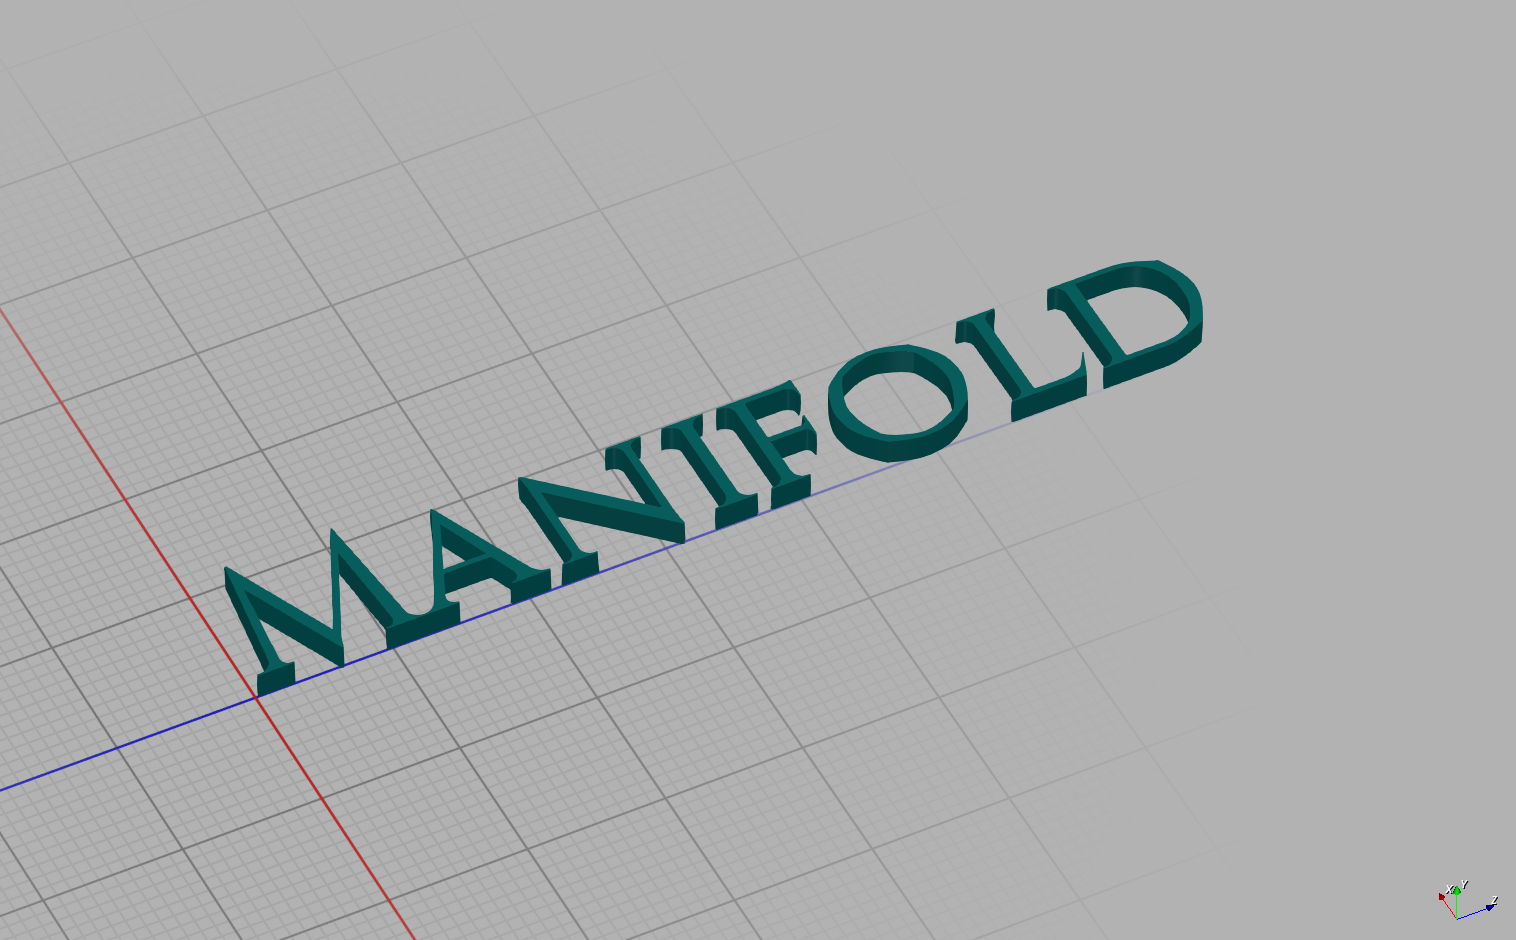
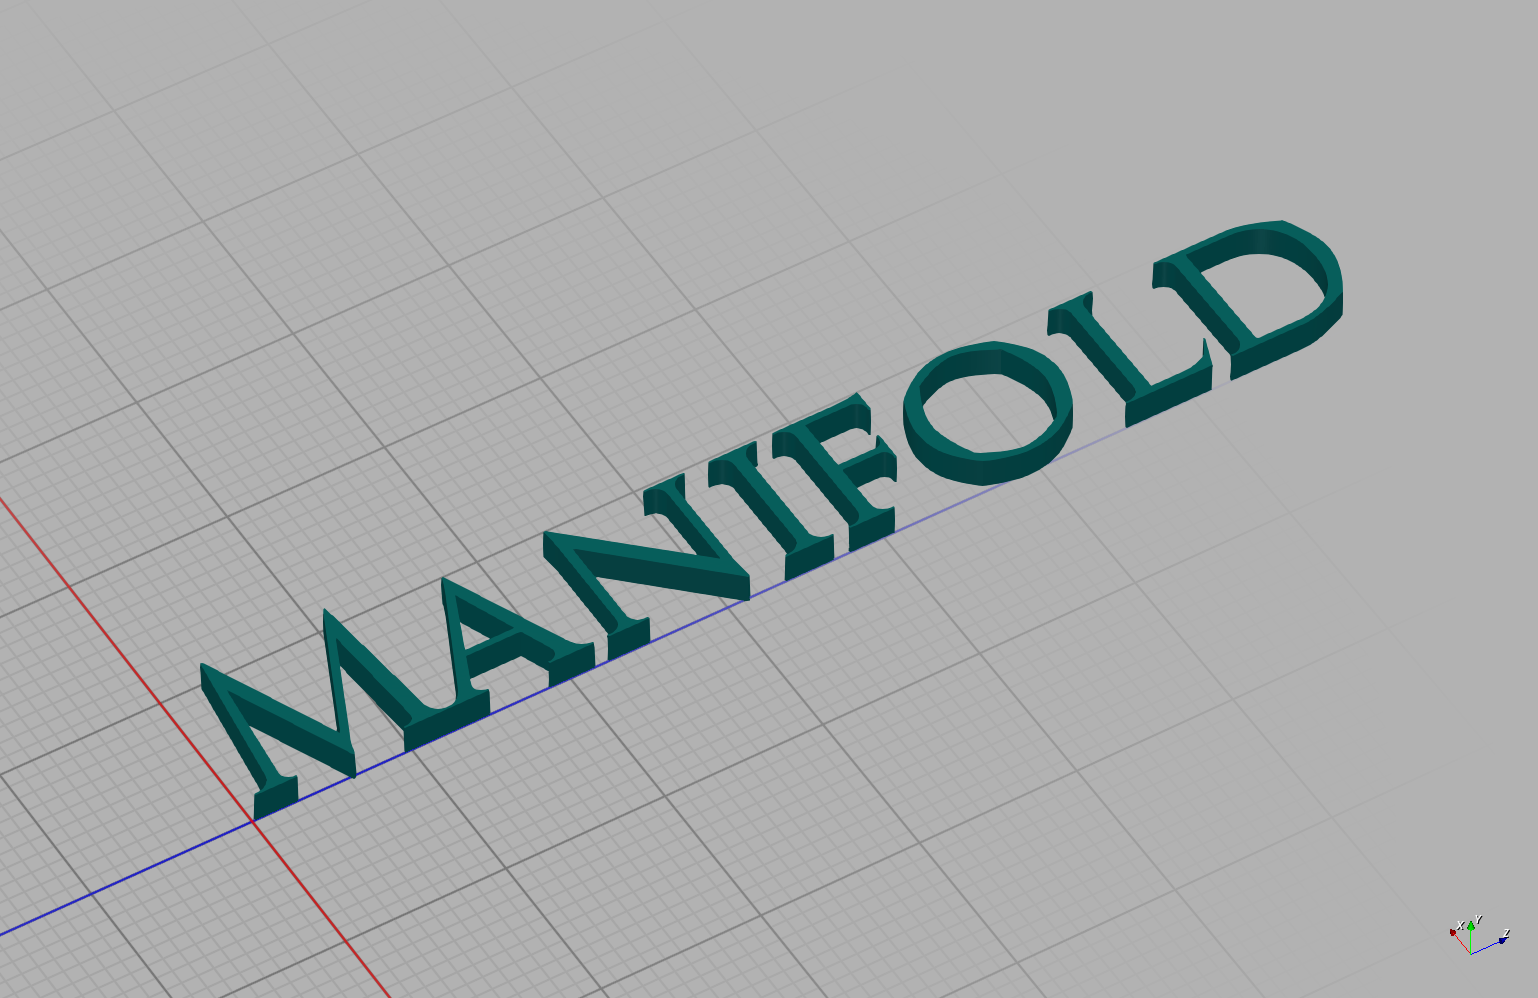
Readme

diff --git a/README.md b/README.md
@@ -5,7 +5,7 @@
 
 This library provides a Clojure(Script) wrapper over Emmett Lalish's incredible Manifold 3D geometry library. The CLJ implementation is based on JNI bindings to c++ produced via. javacpp: see https://github.com/SovereignShop/manifold. The CLJS implementation is based on emscripten build of Manifold for wasm.
 
-It implements most of the library functionality, plus extends it to support polyhedrons and lofts. It provides nearly a full superset of OpenSCAD functionality (except no text support yet).
+It implements most of the library functionality, plus extends it to support polyhedrons and lofts. It provides nearly a full superset of OpenSCAD functionality.
 
 Manifold represents a dramatic advance in the state-of-the-art of open-source programmatic CAD. It has been adopted by most major CAD kernels.
 
@@ -51,9 +51,12 @@ Examples should look very familiar if you've ever used OpenSCAD.
 ## 2D hulls
 
 ``` clojure
-(require '[clj-manifold3d.core :refer [circle square translate extrude get-mesh export-mesh hull
-                                       cross-section revolve difference cylinder sphere offset
-                                       polyhedron loft frame]])
+(require '[clj-manifold3d.core 
+           :refer [cube cylinder sphere cylinder extrude cross-section frame square circle
+                   union difference intersection translate get-mesh export-mesh status rotate
+                   hull revolve offset refine smooth loft scale material text scale-to-height
+                   three-point-arc frame-2d transform slice tetrahedron slices polyhedron]])
+                                       
 
 (-> (hull (circle 5)
           (-> (square 10 10 true)
@@ -127,7 +130,7 @@ Transform frames, which are 4x3 affine transformation matrices, can be manipulat
 ;; => [[1.0 0.0 0.0] [0.0 1.0 0.0] [0.0 0.0 1.0] [0.0 0.0 10.0]]
 ```
 
-Frames transform slightly differently than manifolds. The rotation components are best thought of as basis vectors of a coordinate frame, with the last component representing the position of that frame. Rotations are applied relative to the current frame, turtle-graphics style. Here is an example of apply a transform to a cylinder:
+Frames transform slightly differently than manifolds. The rotation components are best thought of as basis vectors of a coordinate frame, with the last component representing the position of that frame. Rotations and translations are applied relative to the frame, turtle-graphics style. Here is an example of applying a transform to a cylinder:
 
 
 ``` clojure
@@ -195,6 +198,17 @@ There is also a single arity version of loft:
 
 
 ![Single Arity Loft](resources/images/single-arity-loft.png)
+
+## Text
+
+``` clojure
+(-> (text "resources/fonts/Cinzel-Regular.ttf" "Manifold" 10 20 :non-zero)
+    (scale-to-height 100)
+    (extrude 20)
+    (get-mesh)
+    (export-mesh "text.glb" :material mesh-material))
+```
+![Text](resources/images/text.png)
 
 ## Slice 
 
